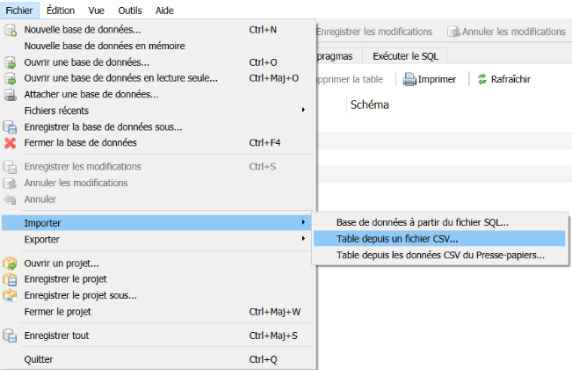
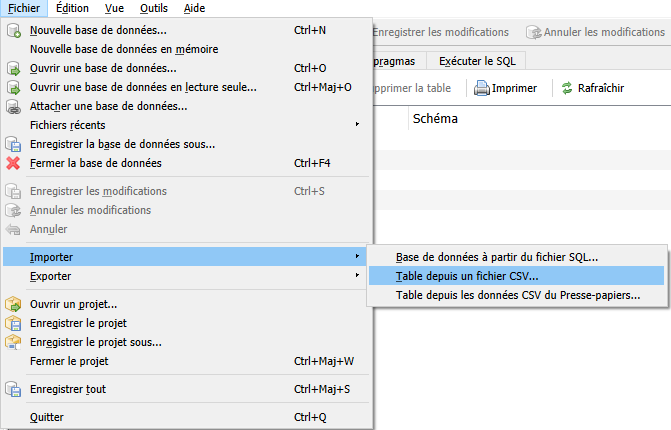
Changes for better resolution images

diff --git a/docs/api/datasette.md b/docs/api/datasette.md
@@ -1,6 +1,6 @@
-
 !!! warning "Attention !"
-	Cette partie de la documentation ne traite pas du service de réconciliation de Biblissima+. Si c'est ce sujet qui vous intéresse, voir la page suivante : <a href="/api/api-reconciliation/">Réconcilier ses données</a>.
+	- Cette partie de la documentation ne traite pas du service de réconciliation de Biblissima+. Si c'est ce sujet qui vous intéresse, voir la page suivante : <a href="/api/api-reconciliation/">Réconcilier ses données</a>. 
+	- L'outil **datasette-reconcile** permet de créer un service de réconciliation en local sur n'importe quel jeu de données téléchargé. Ce tutoriel vous explique comment paramétrer ce service, et présente un cas d'utilisation à partir de noms d'auteurs à aligner avec les autorités BnF.
 
 ### 1.1 - Installation des outils
 [Datasette](https://datasette.io/) est un framework open-source Python qui permet de manipuler et publier ses données avec une interface web. Cet outil donne accès à de nombreux plugins qui ajoutent de nouvelles fonctionnalités. Nous présentons ici le plugin [datasette-](https://github.com/drkane/datasette-reconcile)[reconcile](https://github.com/drkane/datasette-reconcile) qui permet la création d’un service de réconciliation des données qui suit les recommandations du W3C.
@@ -51,12 +51,12 @@ Le **name\_field** est le seul champ obligatoire dans les métadonnées, il corr
 
 Il ne vous reste plus qu’à relancer l’application en indiquant le chemin vers votre fichier, si aucun chemin n’est indiqué, datasette récupère le fichier dans le répertoire courant.
 
-Vous devriez maintenant pouvoir accéder à votre service de réconciliation personnalisé à partir de la page  http://localhost:8001/base\_reconcile/nom\_de\_la\_table/-/reconcile.![](Aspose.Words.ab4ec036-eabe-4ee5-a877-a792abb18280.006.png)
+Vous devriez maintenant pouvoir accéder à votre service de réconciliation personnalisé à partir de la page  http://localhost:8001/base\_reconcile/nom\_de\_la\_table/-/reconcile.
 
 ### 1.4 - Activer la recherche plein-texte (FTS)
 L’utilisation de l’outil peut s’avérer assez limitée à cette étape de l'installation. La requête effectuée lors de la réconciliation reste sommaire, sous la forme :```%chaine\_recherchée%”```.
 
-Pour avoir des résultats moins restrictifs et une vitesse d'exécution plus rapide, il faut configurer la table des données avec l’extension [FTS 5](https://sqlite.org/fts5.html) (Full Text Search). Deux commandes SQLite sur vos données permettent d’y parvenir. Pour exécuter ces commandes dans DB Browser ouvrez l’onglet “Exécuter le SQL”. Dans cette fenêtre, saisissez à la suite les commandes suivantes (la commande INSERT peut demander un temps d'exécution assez long en fonction de la taille de vos données).
+Pour avoir des résultats moins restrictifs et une vitesse d'exécution plus rapide, il faut configurer la table des données avec l’extension [FTS 5](https://sqlite.org/fts5.html) (Full Text Search). Deux commandes SQLite sur vos données permettent d’y parvenir. Pour exécuter ces commandes dans DB Browser ouvrez l’onglet “Exécuter le SQL”. Dans cette fenêtre, saisissez les commandes suivantes (la commande INSERT peut demander un temps d'exécution assez long en fonction de la taille de vos données).
 
 ```sql
 CREATE VIRTUAL TABLE nom_index USING FTS5 (
@@ -68,7 +68,7 @@ INSERT INTO nom_index(nom_index) VALUES("rebuild");
 
 La première commande permet de créer la table qui servira d’index à la recherche full text. La seconde va remplir cette table. Une fois le processus terminé, vous pouvez enregistrer et relancer datasette. Lors de la réconciliation, la vitesse de réponse est normalement plus rapide avec peut-être plus de candidats dans les options de matching. A noter que datasette-reconcile fourni également l'ensemble des services <a href="/api/reconciliation-infos-techniques/#services-suggest">suggest</a>.
 ### 2 - Exemple d’utilisations possibles
-`	`Il est possible de récupérer n’importe quel jeu de données, le transformer en CSV, l’importer dans datasette et l’interroger à l’aide d’[OpenRefine](https://doc.biblissima.fr/api/openrefine/).
+Il est possible de récupérer n’importe quel jeu de données, le transformer en CSV, l’importer dans datasette et l’interroger à l’aide d’OpenRefine (voir notre tutoriel [Réconcilier avec OpenRefine](/api/openrefine/)).
 
 Par exemple pour réconcilier des noms d’auteurs avec les référentiels d’autorités de la BnF, on peut récupérer un de leurs jeux de données : sur la page des [dumps](https://api.bnf.fr/fr/node/270) nous avons sélectionné le dossier databnf\_org\_authors\_xml.tar.gz [lien de téléchargement](https://transfert.bnf.fr/link/2a2b3690-f642-4644-8615-9b50b59c84d9) (on peut aussi bien récupérer des données via le [SPARQL](https://api.bnf.fr/fr/sparql-endpoint-de-databnffr)).
 
@@ -146,3 +146,5 @@ Il ne reste plus qu’à réconcilier ses entités auteurs avec le référentiel
 </figure>
 
 Si vous souhaitez en savoir plus, n'hésitez pas à consulter la [page GitHub](https://github.com/drkane/datasette-reconcile) de datasette-reconcile. Vous pouvez également vous plonger dans le code Python de l’application.
+
+> LANGELÉ Florian (ingénieur d'études), *"Réconcilier avec Datasette"*, Documentation Biblissima+, 2025
